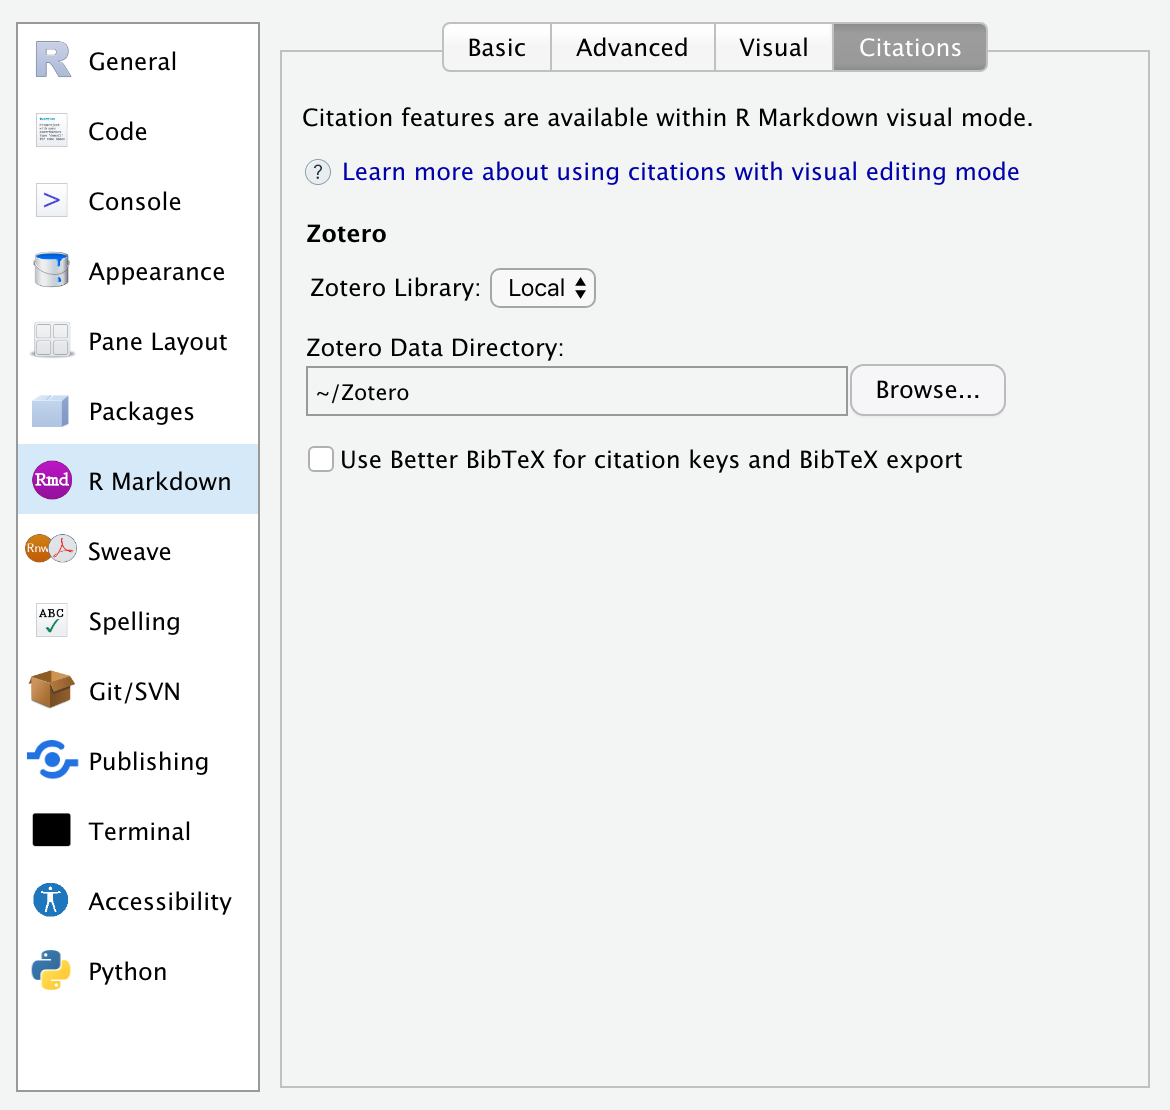
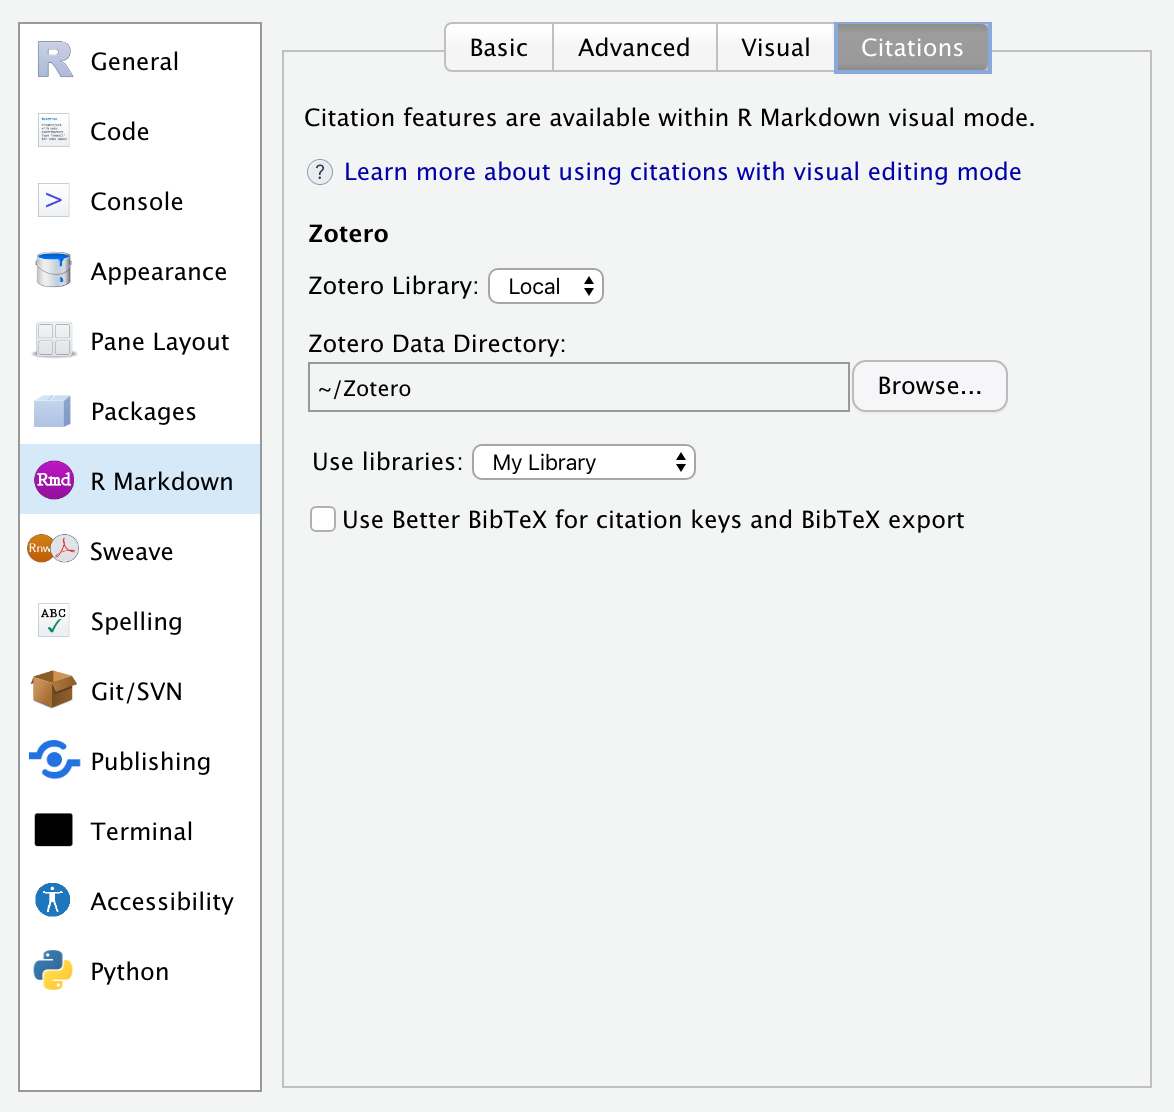
update citations docs

diff --git a/docs/options.md b/docs/options.md
@@ -6,27 +6,27 @@ You can customize visual editing options within **R Markdown -\> Visual**:
 
 <img src="images/visual-editing-options.png" class="illustration" width="585"/>
 
-| Option                                                 | Description                                                                                                                                                                                          |
-|--------------------------------------------------------|------------------------------------------------------------------------------------------------------------------------------------------------------------------------------------------------------|
-| Use visual editing by default                          | Switch to visual mode immediately when creating new R Markdown documents.                                                                                                                            |
-| Show document outline by default                       | Show the navigational outline when opening documents in visual mode.                                                                                                                                 |
-| Editor content width                                   | Maximum width for editing content. This is intended to keep editing similar to the width that users will see.                                                                                        |
-| Editor font size                                       | Base font size for editor content (default: inherit from IDE settings).                                                                                                                              |
-| Show margin column indicator in code blocks            | Show vertical line that indicates location of editing margin column (e.g. 80).                                                                                                                       |
-| Automatic text wrapping (line breaks)                  | When writing markdown, automatically insert line breaks after sentences or at a specified column (default: flow text; no auto-wrapping). See [Line Wrapping](markdown?id=line-wrapping) for details. |
-| Write references at end of current                     | Write references (footnotes) at the end of the block or section where they appear, or at the end of the document. See [References](markdown?id=references) for details.                              |
-| Write canonical visual mode markdown in source mode    | Use the visual mode markdown writer when saving markdown from source mode (ensure consistency between documents saved from either mode).                                                             |
+| Option                                              | Description                                                                                                                                                                                          |
+|-----------------------------------------------------|------------------------------------------------------------------------------------------------------------------------------------------------------------------------------------------------------|
+| Use visual editing by default                       | Switch to visual mode immediately when creating new R Markdown documents.                                                                                                                            |
+| Show document outline by default                    | Show the navigational outline when opening documents in visual mode.                                                                                                                                 |
+| Editor content width                                | Maximum width for editing content. This is intended to keep editing similar to the width that users will see.                                                                                        |
+| Editor font size                                    | Base font size for editor content (default: inherit from IDE settings).                                                                                                                              |
+| Show margin column indicator in code blocks         | Show vertical line that indicates location of editing margin column (e.g. 80).                                                                                                                       |
+| Automatic text wrapping (line breaks)               | When writing markdown, automatically insert line breaks after sentences or at a specified column (default: flow text; no auto-wrapping). See [Line Wrapping](markdown?id=line-wrapping) for details. |
+| Write references at end of current                  | Write references (footnotes) at the end of the block or section where they appear, or at the end of the document. See [References](markdown?id=references) for details.                              |
+| Write canonical visual mode markdown in source mode | Use the visual mode markdown writer when saving markdown from source mode (ensure consistency between documents saved from either mode).                                                             |
 
 You can customize visual editor citation options within **R Markdown -\> Citations**:
 
 <img src="images/visual-editing-options-citations.png" class="illustration" width="585"/>
 
-| Option                                                 | Description                                                                                                                                                                                          |
-|--------------------------------------------------------|------------------------------------------------------------------------------------------------------------------------------------------------------------------------------------------------------|
-| Zotero Library                                         | Location of [Zotero](citations#citations-from-zotero) citation library (Local or Web).                                                                                                               |
-| Zotero Data Directory                                  | Location of Zotero local data directory.                                                                                                                                                             |
-| Use Better BibTeX for citation keys and BibTeX export. | Optionally use [Better BibTeX](https://retorque.re/zotero-better-bibtex/) to generate citation keys and export BibTeX from Zotero (this option appears only if Better BibTeX is installed).          |
-
+| Option                                                 | Description                                                                                                                                                                                 |
+|--------------------------------------------------------|---------------------------------------------------------------------------------------------------------------------------------------------------------------------------------------------|
+| Zotero Library                                         | Location of [Zotero](citations#citations-from-zotero) citation library (Local or Web).                                                                                                      |
+| Zotero Data Directory                                  | Location of Zotero local data directory.                                                                                                                                                    |
+| Use libraries                                          | Zotero libraries to use as reference sources.                                                                                                                                               |
+| Use Better BibTeX for citation keys and BibTeX export. | Optionally use [Better BibTeX](https://retorque.re/zotero-better-bibtex/) to generate citation keys and export BibTeX from Zotero (this option appears only if Better BibTeX is installed). |
 
 ## Project Options
 
@@ -34,7 +34,7 @@ Global options that affect the way markdown is written can also be customized on
 
 <img src="images/visual-editing-project-options.png" class="illustration" width="541"/>
 
-By default projects inherit the current global settings for markdown writing.
+By default projects inherit the current global settings for markdown writing and Zotero libraries.
 
 ## File Options
 

diff --git a/docs/citations.md b/docs/citations.md
@@ -1,6 +1,6 @@
 <!-- -*- mode: gfm -*- -->
 
-Visual mode uses the standard Pandoc markdown representation for citations (e.g. `[@citation])`. Citations can be drawn from a variety of sources:
+Visual mode uses the standard Pandoc markdown representation for citations (e.g. `[@citation]`). Citations can be drawn from a variety of sources:
 
 1.  Document or project level bibliographies.
 2.  [DOI](#citations-from-dois) (Document Object Identifier) references.
@@ -8,13 +8,13 @@ Visual mode uses the standard Pandoc markdown representation for citations (e.g.
 
 When inserting a citation you can search across all of these sources:
 
-<img src="images/visual-editing-citation-search.png" width="426"/>
+<img src="images/visual-editing-citation-search.png" class="illustration" width="918"/>
 
 If you insert a citation from a DOI or Zotero library that isn't already in your bibliography then it will be automatically added to the bibliography.
 
 ## Bibliographies
 
-R Markdown supports bibliographies in a wide variety of formats including BibTeX and CSL. Add a bibliography to your document using the `bibliography` YAML metadata field. For example:
+R Markdown supports bibliographies in a wide variety of formats including BibLaTeX and CSL. Add a bibliography to your document using the `bibliography` YAML metadata field. For example:
 
 ``` yaml
 ---
@@ -27,53 +27,67 @@ See the [pandoc citations](https://pandoc.org/MANUAL.html#citations) documentati
 
 ## Inserting Citations
 
-Once you have a bibliography, you can include citations in visual mode by either using the markdown syntax directly (e.g. `[@cite]`), via the **Insert -\> Citation** command, or with the <kbd>⇧⌘ F8</kbd> keyboard shortcut:
+Once you have a bibliography, you can include citations in visual mode by either:
+
+1.  Using the **Insert -\> Citation** command (or the <kbd>⇧⌘ F8</kbd> keyboard shortcut)
+
+2.  Using markdown syntax directly (e.g. `[@cite]`).
+
+If you use the command or keyboard shortcut you'll see the **Insert Citation** dialog pictured above, which enables you to browse your various citation sources or do searches for citations you don't currently have (e.g. search by DOI).
+
+If you use markdown syntax you'll see completions for citations in your bibliography and/or your Zotero libraries to make it easier to locate a citation even if you don't remember it's specific ID:
 
 <img src="images/visual-editing-citations.png" width="700"/>
 
-As illustrated above, when entering a citation you can search your bibliography and available Zotero collections to make it easier to locate a citation even if you don't remember it's specific ID.
-
-Once you've inserted a citation, place the cursor over it to see a preview of it along with a link to the source if one is available:
-
-<img src="images/visual-editing-cite-popup.png" width="700"/>
-
-## Citations from DOIs
-
-You can insert citations for works not currently in your bibliography by providing a [DOI](https://www.doi.org/) (Document Object Identifier). Just paste the DOI after the `@` and it will be automatically looked up. For example:
+Note that you can also paste a [DOI](https://www.doi.org/) after the `@` and it will be automatically looked up:
 
 <img src="images/visual-editing-citations-doi.png" width="700"/>
 
 Once you've confirmed that it's the correct work (and possibly modified the suggested ID), the citation will be inserted into the document and an entry for the work added to your bibliography.
 
-## Citations from Zotero
+Once you've inserted a citation, place the cursor over it to see a preview of it along with a link to the source if one is available:
 
-If you use [Zotero](https://zotero.org) to manage citations, you can also insert citations directly from your Zotero library. To do this, add the `zotero` YAML metadata field to your documents (or to your `index.Rmd` for bookdown projects). For example:
+<img src="images/visual-editing-cite-popup.png" width="700"/>
 
-``` yaml
----
-title: "My Document"
-bibliography: references.bib
-zotero: true
----
-```
+## Using Zotero
 
-The above configuration will search your entire Zotero library. If you organize your Zotero library into collections then its highly recommended that you specify a subset of your collections to narrow search results to only items relevant to your current document. For example:
+[Zotero](https://zotero.org) is a popular free and open source reference manager. If you use Zotero, you can also insert citations directly from your Zotero libraries. If you have Zotero installed locally it's location will be detected automatically and citations from your main library (**My Library**) will be available:
 
-``` yaml
----
-title: "My Document"
-bibliography: references.bib
-zotero: "Thesis"
----
-```
+<img src="images/visual-editing-citations-zotero-browse.png" class="illustration" width="918"/>
 
-Now, when you insert a citation you'll be able to search and insert items from the specified Zotero collection(s):
+Zotero references will also show up automatically in completions:
 
-<img src="images/visual-editing-citation-search.png" width="426"/>
+<img src="images/visual-editing-citation-completions.png" width="426"/>
 
 Items from Zotero will appear alongside items from your bibliography with a small "Z" logo juxtaposed over them. If you insert a citation from Zotero that isn't already in your bibliography then it will be automatically added to the bibliography.
 
-If you are running both RStudio and Zotero on your desktop, then no additional configuration is required for connecting to your Zotero library. If however you using RStudio Server and/or want to access your Zotero library over the web, then a few more steps (covered in the next section) are required.
+If you are running both RStudio and Zotero on your desktop, then no additional configuration is required for connecting to your Zotero library. If however you using RStudio Server and/or want to access your Zotero library over the web, then a few more steps are required (see the [Zotero Web API](#zotero-web-api) section for details).
+
+### Group Libraries
+
+[Zotero Groups](https://www.zotero.org/support/groups) provide a powerful way to share collections with a class or work closely with colleagues on a project. By default, Zotero Group Libraries are not included in the **Insert Citation** dialog or citation completions. However, there are options available to use group libraries at a global, per-project, or per-document level.
+
+For example, here we specify a project-level option to use the *Reproducible Research Series (Year 1)* group library:
+
+<img src="images/visual-editing-citation-zotero-group.png" class="illustration" width="543"/>
+
+You can also specify one or more libraries within YAML. For example:
+
+``` yaml
+---
+title: "Reproducible Research"
+zotero: "Reproducible Research Series (Year 1)"
+---
+```
+
+Note that you can also turn off Zotero entirely for a document using `zotero: false`:
+
+``` yaml
+---
+title: "Reproducible Research"
+zotero: false
+---
+```
 
 ### Zotero Web API
 
